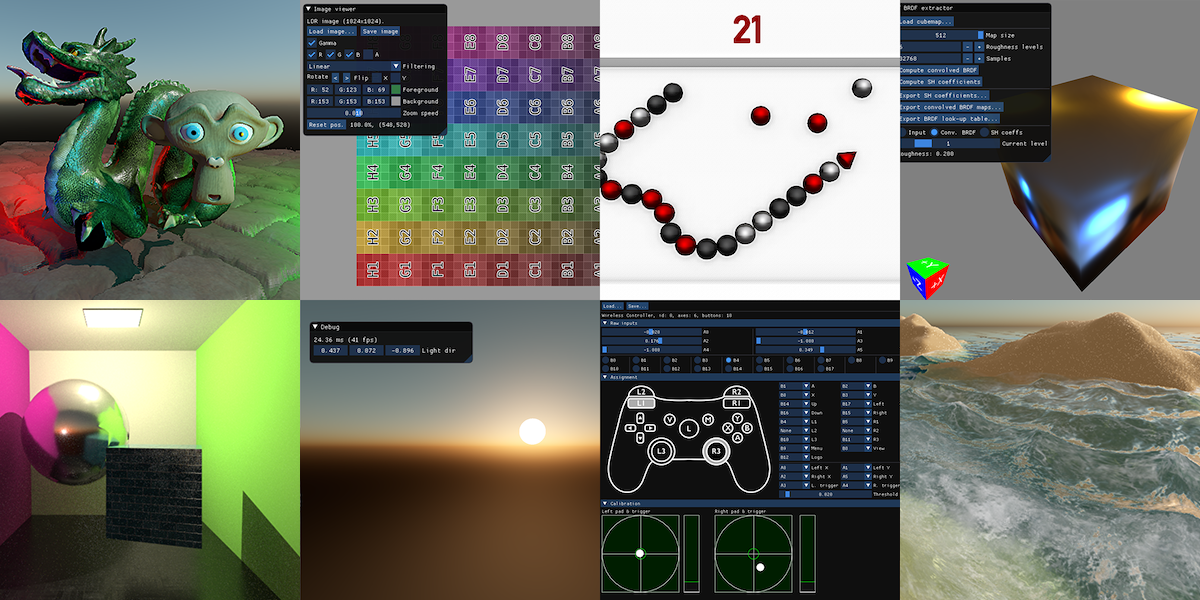
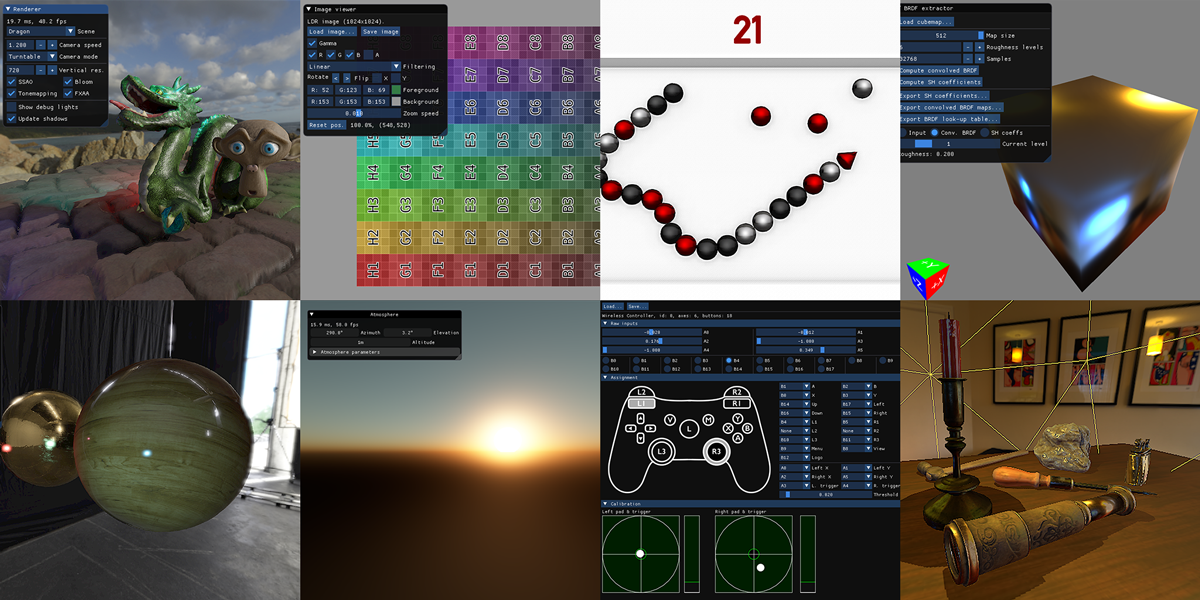
README: update Atmospheric scattering application

diff --git a/README.md b/README.md
@@ -23,7 +23,7 @@ Basic resources to run each project are included in this repository, but you can
 | [Island and ocean rendering](http://kosua20.github.io/Rendu-documentation/group___island.html) | ![Island and ocean preview](docs/img/island.png) Real-time rendering of an ocean and island, using tesselation, Gerstner waves, custom sand and water shading. Underwater rendering is achieved using absorption/scattering tables, depth based blur and caustics mapping. Sand rendering is performed using high-frequency detail data and triplanar mapping.  |
 | [Image Filtering](http://kosua20.github.io/Rendu-documentation/group___image_filtering.html) | ![Image filtering preview](docs/img/imagefiltering.png) Apply filters to an image, such as gaussian blur, box-blur, approximate flood-fill (*Jump Flooding in GPU with Applications to Voronoi Diagram and Distance Transform*, Rong et al., 2006) and poisson filling (*Convolution Pyramids*, Farbman et al., 2011), etc. |
 | [Shader playground](http://kosua20.github.io/Rendu-documentation/group___shader_bench.html) | ![Shader bench preview](docs/img/shaderbench.png) Interactive shader viewer with editable inputs (uniforms, textures) and camera parameters for raymarching, noise generation,... |
-| [Atmospheric scattering](http://kosua20.github.io/Rendu-documentation/group___atmospheric_scattering.html) | ![Atmospheric scattering preview](docs/img/atmosphere.png) Realistic atmosphere rendering with Rayleigh and Mie scattering (*Precomputed Atmospheric Scattering*, Bruneton et al., 2008). |
+| [Atmospheric scattering](http://kosua20.github.io/Rendu-documentation/group___atmospheric_scattering.html) | ![Atmospheric scattering preview](docs/img/atmosphere.png) Realistic atmosphere rendering with Rayleigh and Mie scattering (*Precomputed Atmospheric Scattering*, Bruneton et al., 2008). Support on-the-fly lookup table updates and export. |
 | [Snake Game](http://kosua20.github.io/Rendu-documentation/group___snake_game.html) | ![Snake game preview](docs/img/snake.png) A basic game of snake, demonstrating game menus, player state, batched rendering. |
 
 ## Tools
@@ -34,7 +34,6 @@ Basic resources to run each project are included in this repository, but you can
 | [BRDF Estimator](http://kosua20.github.io/Rendu-documentation/group___b_r_d_f_estimator.html) | ![BRDF tool preview](docs/img/brdfpreproc.png) Compute data for image-based lighting from an environment map: pre-convolved irradiance, BRDF look-up table, ambient lighting spherical harmonics decomposition. |
 | [Controller mapper](http://kosua20.github.io/Rendu-documentation/group___controller_test.html) | ![Controller tool preview](docs/img/controllermap.png) Interface to create and edit controller button/stick mappings. |
 | [Shader validator](http://kosua20.github.io/Rendu-documentation/group___shader_validator.html) | ![Shader validator preview](docs/img/shadervalidator.png) Perform per-shader compilation against the GPU driver and reports errors in an IDE-compatible fashion. |
-| [Atmospheric scattering preprocess](http://kosua20.github.io/Rendu-documentation/group___atmospheric_scattering.html) | ![Scattering tool preview](docs/img/atmopreproc.png) Compute the atmosphere coefficients look-up table for the Atmospheric Scattering project. |
 | [Playground](http://kosua20.github.io/Rendu-documentation/group___playground.html) | ![Playground preview](docs/img/playground.png) Simple application setting up a rendering context for small experimentations. |
 
 # Building
